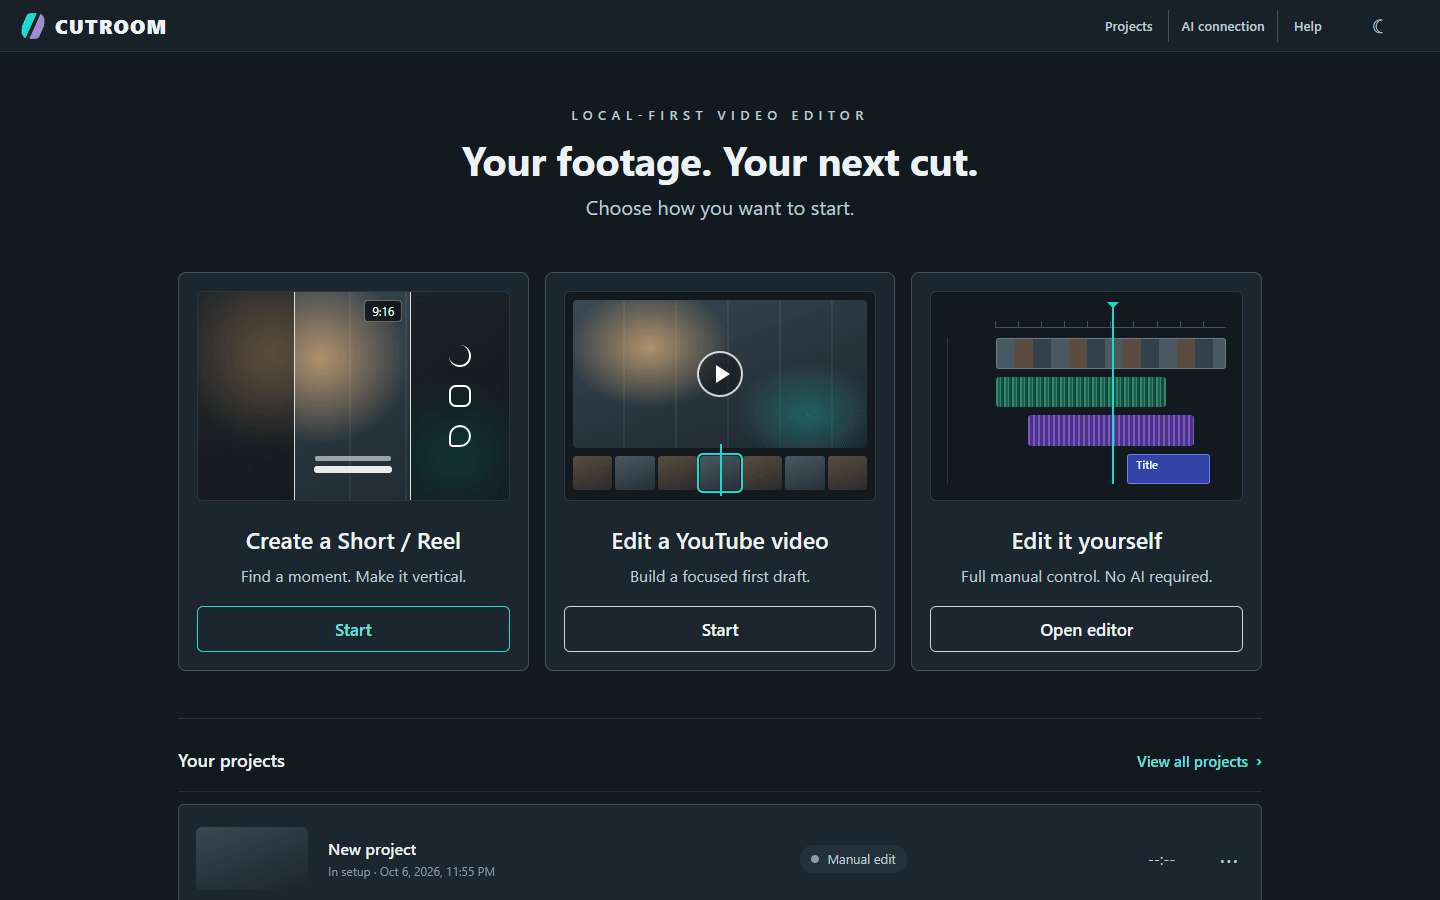
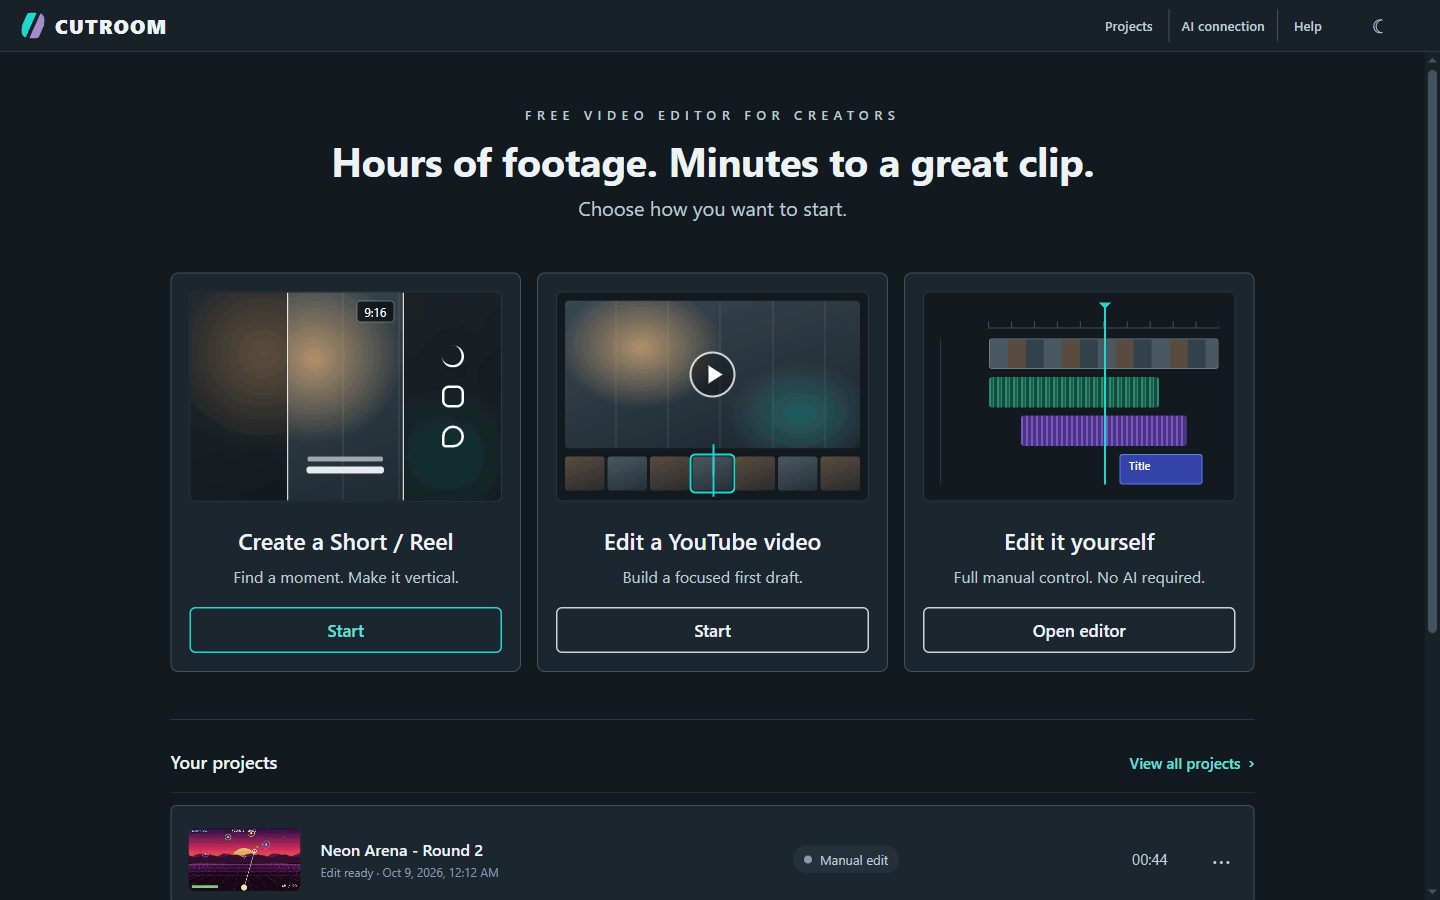
docs: recapture the home screen with the new tagline

diff --git a/README.md b/README.md
@@ -58,7 +58,7 @@
 
 <table>
   <tr>
-    <td width="33%"><a href="https://github.com/VanoPeradze/cutroom/blob/master/docs/images/readme/studio-home-20261007.png"><img src="https://raw.githubusercontent.com/VanoPeradze/cutroom/master/docs/images/readme/studio-home-20261007.png" alt="Home: start a Short or Reel, a YouTube video or a manual edit, with recent projects below"></a></td>
+    <td width="33%"><a href="https://github.com/VanoPeradze/cutroom/blob/master/docs/images/readme/studio-home-20261009.png"><img src="https://raw.githubusercontent.com/VanoPeradze/cutroom/master/docs/images/readme/studio-home-20261009.png" alt="Home: start a Short or Reel, a YouTube video or a manual edit, with recent projects below"></a></td>
     <td width="33%"><a href="https://github.com/VanoPeradze/cutroom/blob/master/docs/images/readme/studio-audio-20261007.png"><img src="https://raw.githubusercontent.com/VanoPeradze/cutroom/master/docs/images/readme/studio-audio-20261007.png" alt="Audio workspace: track mixer with Original, Music, Voiceover, Effects and Master channels"></a></td>
     <td width="33%"><a href="https://github.com/VanoPeradze/cutroom/blob/master/docs/images/readme/studio-output-20261007.png"><img src="https://raw.githubusercontent.com/VanoPeradze/cutroom/master/docs/images/readme/studio-output-20261007.png" alt="Output workspace: output presets, resolution, frame rate and quality, with Export video"></a></td>
   </tr>
